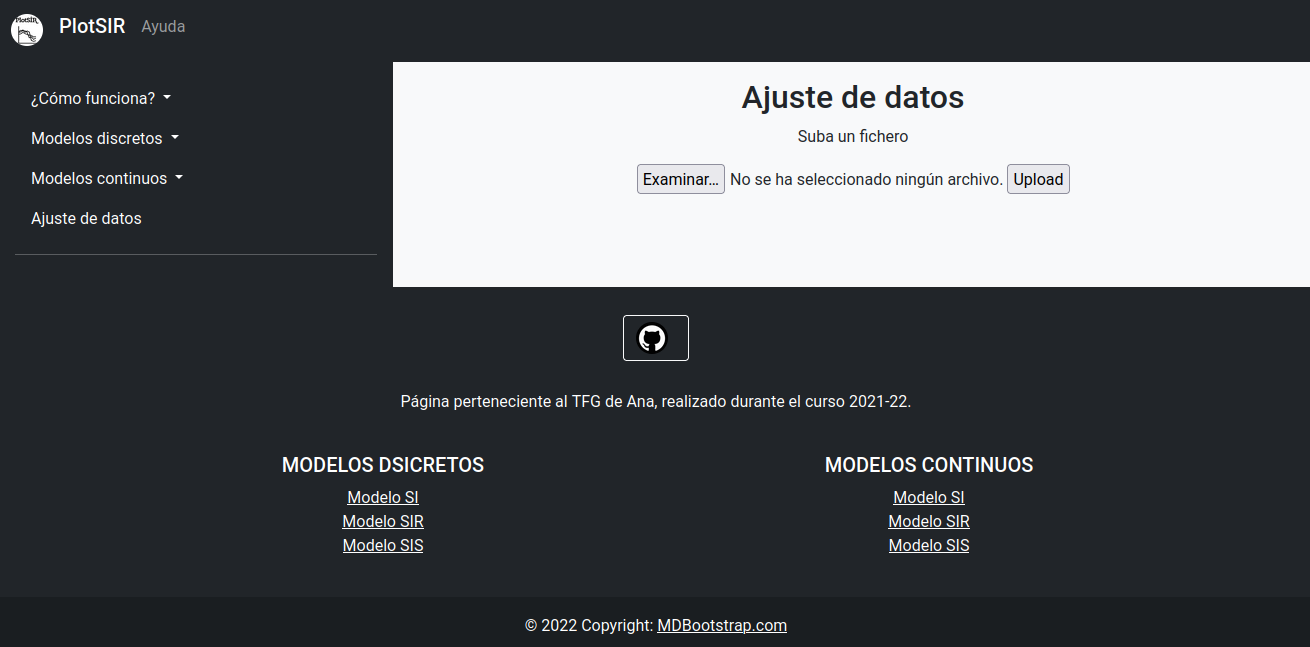
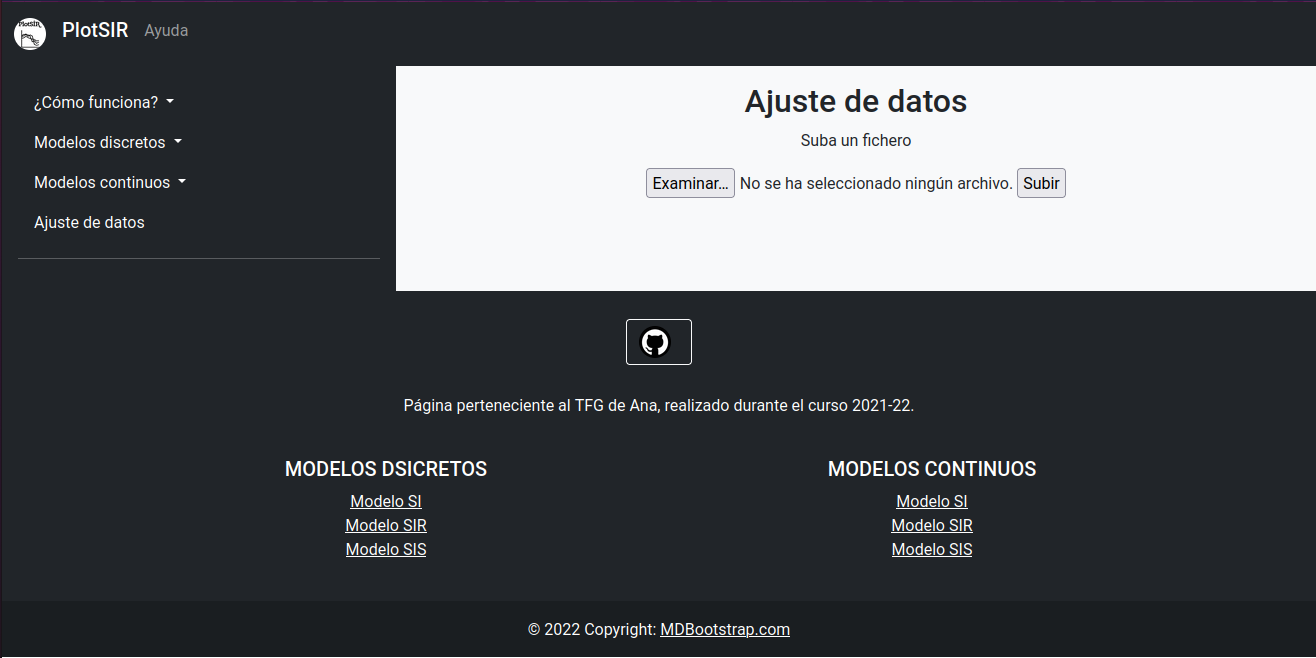
Correcciones redaccion pagina

diff --git a/codigo/prueba_docker/app/app/templates/index.html b/codigo/prueba_docker/app/app/templates/index.html
@@ -7,7 +7,7 @@
 
     <img src="static/logo.png" alt="Logo de la página" class="rounded-circle me-2">
 
-    <p>Con el fin de emprender el desarrollo y evolución de diversas enfermedades, existen distintos modelos que tratan de predecir o ajustar el comportamiento de diversas enfermedades.</p>
+    <p>Con el fin de emprender el desarrollo y evolución de diversas enfermedades, existen distintos modelos que tratan de predecir o ajustar el comportamiento de estas.</p>
 
     <p>Durante años, se han realizado modificaciones de los modelos existentes y creado variaciones nuevas para ajustarse mejor a cada enfermedad. Pese a esto, todos los modelos parten de los mismos modelos fundamentales que se presetan en esta página.</p> 
 

diff --git a/codigo/prueba_docker/app/app/templates/modeloSIS.html b/codigo/prueba_docker/app/app/templates/modeloSIS.html
@@ -5,7 +5,7 @@
 <div class="d-flex align-items-center flex-column">
     <h2> Modelo SIS</h2>
     <p>El modelo SIS es similar al SI, con la salvedad de que los individuos son susceptibles de múltiples reinfecciones.</p>
-    <p>El modelo es una perturbación del modelo SI descrito anteriormente. Se define de la siguiente forma:</p>
+    <p>El modelo es una perturbación del modelo SI descrito anteriormente. Se ajusta a las ecuaciones:</p>
     $$S_{n+1} = S_n \left(1-\frac{\alpha\Delta t}{N} I_n \right) + \gamma \Delta t I_n $$
     $$I_{n+1} = I_n \left( 1-\gamma \Delta t + \frac{\alpha\Delta t}{N} S_n \right)$$
 

diff --git a/codigo/prueba_docker/app/app/templates/modeloSIR.html b/codigo/prueba_docker/app/app/templates/modeloSIR.html
@@ -5,7 +5,7 @@
 <div class="d-flex align-items-center flex-column">
     <h2> Modelo SIR</h2>
     <p>El modelo SIR comienza como el SI, pero tras infectarse los individuos pasan a un estado Recuperado, en el cual no pueden volver a infectarse ni infectar a otros.</p>
-    <p>El modelo tiene la siguiente forma:</p>
+    <p>El modelo se ajusta a las ecuaciones:</p>
     $$S_{n+1} = S_n \left(1-\frac{\alpha\Delta t}{N} I_n \right)$$
     $$I_{n+1} = I_n \left( 1-\gamma \Delta t + \frac{\alpha\Delta t}{N} S_n \right)$$
     $$R_{n+1} = R_n + \gamma \Delta t I_n$$

diff --git a/codigo/prueba_docker/app/app/templates/modeloSI.html b/codigo/prueba_docker/app/app/templates/modeloSI.html
@@ -5,7 +5,7 @@
 <div class="d-flex align-items-center flex-column">
     <h2> Modelo SI</h2>
     <p>El modelo SI es el modelo más simple de todos. Los individuos nacen siendo susceptibles a una enfermedad, y una vez infectados permanecen infectados el resto de su vida.</p>
-    <p>El modelo tiene la siguiente forma:</p>
+    <p>El modelo se ajusta a las ecuaciones:</p>
     $$S_{n+1}=S_n\left( 1-\frac{\alpha\Delta t}{N}I_n\right)$$
     $$I_{n+1}=I_n\left( 1+\frac{\alpha\Delta t}{N}S_n\right)$$
 

diff --git a/codigo/prueba_docker/app/app/templates/modeloSI_continuo.html b/codigo/prueba_docker/app/app/templates/modeloSI_continuo.html
@@ -5,7 +5,7 @@
 <div class="d-flex align-items-center flex-column">
     <h2> Modelo SI</h2>
     <p>En el modelo SI los individuos nacen siendo susceptibles a una enfermedad, y una vez infectados permanecen infectados el resto de su vida.</p>
-    <p>El modelo tiene la siguiente forma:</p>
+    <p>El modelo se ajusta a las ecuaciones:</p>
     $$S'(t) = -\frac{\alpha}{N}SI$$
     $$I'(t) = \frac{\alpha}{N}SI$$
 

diff --git a/codigo/prueba_docker/app/app/templates/modeloSIR_continuo.html b/codigo/prueba_docker/app/app/templates/modeloSIR_continuo.html
@@ -6,7 +6,7 @@
     <h2> Modelo SIR</h2>
 
     <p>En el modelo SI los individuos nacen siendo susceptibles a una enfermedad, y una vez infectados permanecen infectados el resto de su vida.</p>
-    <p>El modelo tiene la siguiente forma:</p>
+    <p>El modelo se ajusta a las ecuaciones:</p>
     $$S'(t) = -\dfrac{\alpha}{N}SI$$
     $$I'(t) = I\left(\dfrac{\alpha}{N}S-\gamma \right)$$
     $$R'(t) = \gamma I$$

diff --git a/codigo/prueba_docker/app/app/templates/modeloSIS_continuo.html b/codigo/prueba_docker/app/app/templates/modeloSIS_continuo.html
@@ -6,7 +6,7 @@
     <h2> Modelo SIS</h2>
 
     <p>El modelo SIS es similar al SI, con la salvedad de que los individuos son susceptibles de múltiples reinfecciones.</p>
-    <p>El modelo tiene la siguiente forma:</p>
+    <p>El modelo se ajusta a las ecuaciones:</p>
     $$S'(t) = -\frac{\alpha}{N}SI+\gamma I$$
     $$I'(t) = I\left( \frac{\alpha}{N}S-\gamma \right)$$
 

diff --git a/codigo/prueba_docker/app/app/templates/ajuste_datos.html b/codigo/prueba_docker/app/app/templates/ajuste_datos.html
@@ -9,7 +9,7 @@
 
     <form method=post enctype=multipart/form-data>
         <input type=file name=file>
-        <input type=submit value=Upload>
+        <input type=submit value=Subir>
     </form>
 
     {% if error is defined and error|length %}

diff --git a/codigo/prueba_docker/app/apps_dash/paginaSIR.py b/codigo/prueba_docker/app/apps_dash/paginaSIR.py
@@ -151,7 +151,7 @@ def calcular_modelo(N_SIR, alfa, gamma, S0, I0, R0, T):
     figSI.add_trace(go.Scatter(x=S, y=I,
                         mode='lines'))
 
-    figSI.update_layout(title='Modelo SIR, variación de infectados y susceptibles con dependencia implícita del tiempo',
+    figSI.update_layout(title='Modelo SIR, variación de infectados en términos de los susceptibles.',
                     xaxis_title='Susceptibles',
                     yaxis_title='Infectados')
 
@@ -163,7 +163,7 @@ def calcular_modelo(N_SIR, alfa, gamma, S0, I0, R0, T):
     figSR.add_trace(go.Scatter(x=S, y=R,
                         mode='lines'))
 
-    figSR.update_layout(title='Modelo SIR, variación de recuperados y susceptibles con dependencia implícita del tiempo',
+    figSR.update_layout(title='Modelo SIR, variación de recuperados en términos de los susceptibles.',
                     xaxis_title='Susceptibles',
                     yaxis_title='Recuperados')
 
@@ -175,7 +175,7 @@ def calcular_modelo(N_SIR, alfa, gamma, S0, I0, R0, T):
     figIR.add_trace(go.Scatter(x=I, y=R,
                         mode='lines'))
 
-    figIR.update_layout(title='Modelo SIR, variación de recuperados e infectados con dependencia implícita del tiempo',
+    figIR.update_layout(title='Modelo SIR, variación de recuperados en términos de los infectados.',
                     xaxis_title='Infectados',
                     yaxis_title='Recuperados')
 

diff --git a/codigo/prueba_docker/app/apps_dash/paginaSIR_continuo.py b/codigo/prueba_docker/app/apps_dash/paginaSIR_continuo.py
@@ -151,7 +151,7 @@ def calcular_modelo(N_SIR, alfa, gamma, S0, I0, R0, T):
     figSI.add_trace(go.Scatter(x=S, y=I,
                         mode='lines'))
 
-    figSI.update_layout(title='Modelo SIR, variación de infectados y susceptibles con dependencia implícita del tiempo',
+    figSI.update_layout(title='Modelo SIR, variación de infectados en términos de los susceptibles.',
                     xaxis_title='Susceptibles',
                     yaxis_title='Infectados')
 
@@ -163,7 +163,7 @@ def calcular_modelo(N_SIR, alfa, gamma, S0, I0, R0, T):
     figSR.add_trace(go.Scatter(x=S, y=R,
                         mode='lines'))
 
-    figSR.update_layout(title='Modelo SIR, variación de recuperados y susceptibles con dependencia implícita del tiempo',
+    figSR.update_layout(title='Modelo SIR, variación de recuperados en términos de los susceptibles.',
                     xaxis_title='Susceptibles',
                     yaxis_title='Recuperados')
 
@@ -175,7 +175,7 @@ def calcular_modelo(N_SIR, alfa, gamma, S0, I0, R0, T):
     figIR.add_trace(go.Scatter(x=I, y=R,
                         mode='lines'))
 
-    figIR.update_layout(title='Modelo SIR, variación de recuperados e infectados con dependencia implícita del tiempo',
+    figIR.update_layout(title='Modelo SIR, variación de recuperados en términos de los infectados.',
                     xaxis_title='Infectados',
                     yaxis_title='Recuperados')
 

diff --git a/codigo/prueba_docker/app/apps_dash/paginaSIS.py b/codigo/prueba_docker/app/apps_dash/paginaSIS.py
@@ -129,7 +129,7 @@ def calcular_modelo(N_SIS, alfa, gamma, S0, I0, T):
     figSI.add_trace(go.Scatter(x=S, y=I,
                         mode='lines'))
 
-    figSI.update_layout(title='Modelo SIS, variación de infectados y susceptibles con dependencia implícita del tiempo',
+    figSI.update_layout(title='Modelo SIS, variación de infectados en términos de los susceptibles.',
                     xaxis_title='Susceptibles',
                     yaxis_title='Infectados')
 

diff --git a/codigo/prueba_docker/app/apps_dash/paginaSIS_continuo.py b/codigo/prueba_docker/app/apps_dash/paginaSIS_continuo.py
@@ -129,7 +129,7 @@ def calcular_modelo(N_SIS, alfa, gamma, S0, I0, T):
     figSI.add_trace(go.Scatter(x=S, y=I,
                         mode='lines'))
 
-    figSI.update_layout(title='Modelo SIS, variación de infectados y susceptibles con dependencia implícita del tiempo',
+    figSI.update_layout(title='Modelo SIS, variación de infectados en términos de los susceptibles.',
                     xaxis_title='Susceptibles',
                     yaxis_title='Infectados')
 
